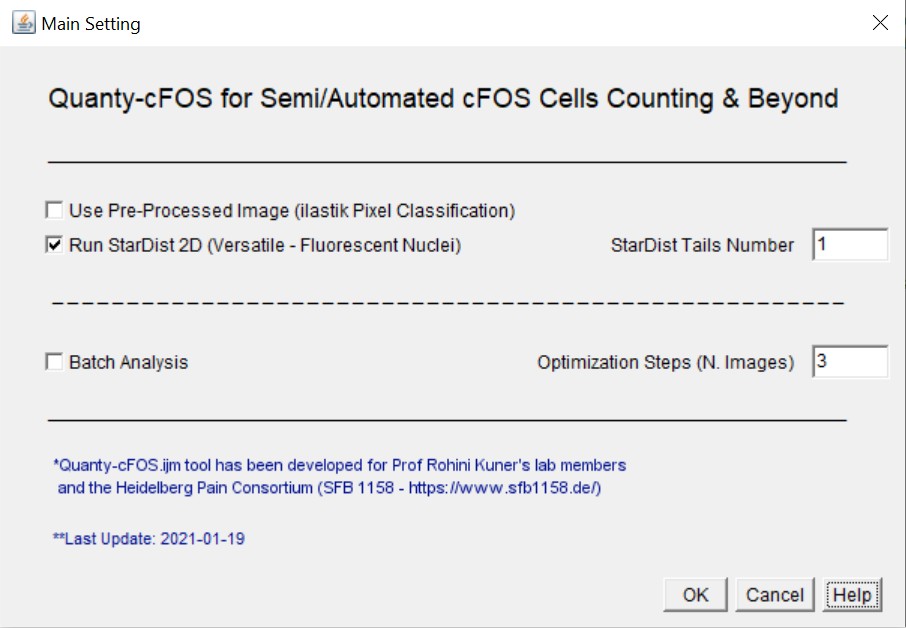
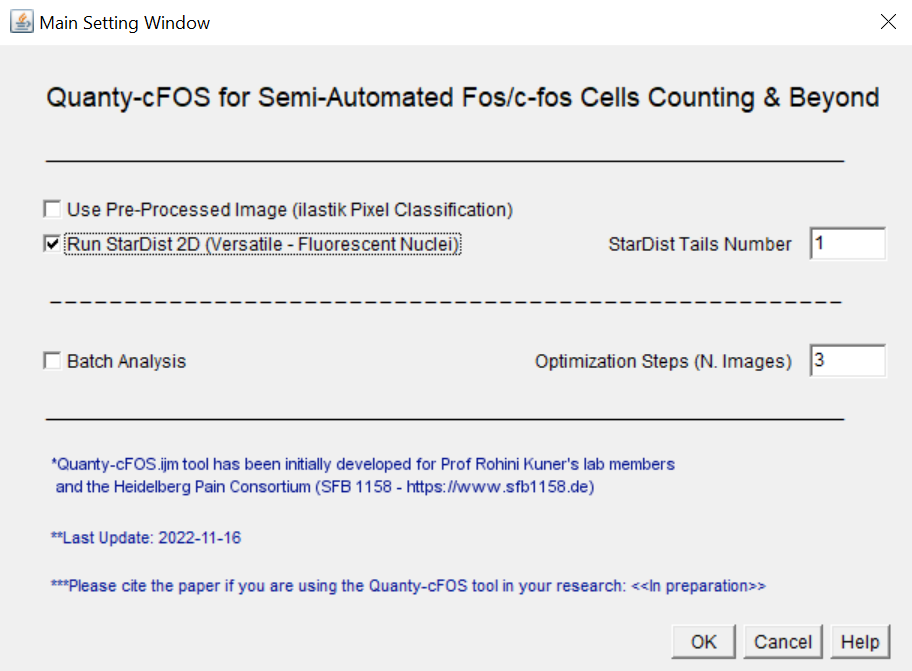
Update README

diff --git a/README.md b/README.md
@@ -2,7 +2,12 @@
 
 <p align="center">
   <img width="924" height="412" src="static/cover.jpg">
+  <img.resize {
+              max-width:auto;
+              max-height:100%;
+              }
 </p
+
 
 The *Quanty-cFOS.ijm* is an ImageJ/Fiji tool developed to count specifically Fos/*c-fos* labelled cells in fixed brain slices or more generally to count cell markers in 2D fluorescent images or on Maximum Intensity Projections (MIP) in an unbiased manner. For flexibility reasons this tool is implemented as a macro-set (IJ1) for Image/Fiji (tested on version 1.53s and above)
 
@@ -13,7 +18,7 @@ The Quanty-cFOS tool uses two different segmentation methods:
 
 The user can decide which method is more suitable to process the input raw images. It is recommended to start with the StarDist 2D *Versatile* model and switch to the ilastik pixel classification workflow only if the detection is not accurate enough or the structures of interest are not convex
 
-The novelty of the Quanty-cFOS counting tool is the *z-score* intensity analysis used to compute the intensity cutoff (*cFOS Automated Optimization*). The algorithm computes the intensity and the standard deviation of each detected cell on the raw images and uses the normalized distance between each single cell intensity and the mean population intensity to calculate the intensity cutoff. Cells above the intesity cutoff are counted positve, below the cutoff - negative
+The novelty of the Quanty-cFOS counting tool is the *z-score* intensity analysis used to compute the intensity cutoff (*Automated Optimization*). The algorithm computes the intensity and the standard deviation of each detected cell on the raw images and uses the normalized distance between each single cell intensity and the mean population intensity to calculate the intensity cutoff. Cells above the intesity cutoff are counted positve, below the cutoff - negative
 
 The workflow consists of two major steps: 
 
@@ -22,7 +27,7 @@ The workflow consists of two major steps:
 
 
 
-## Quanty-cFOS: Automated Intensity Count (Experimental)
+## Quanty-cFOS: Automated Optimization (Experimental)
 
 Fos/*c-fos* staining is known to work differently depending on many experimental factors that might include fixation, antibody type and batch, section thickness... Fos/*c-fos* neurons manual count is extremely time consuming and can differ depending on the decision criteria in particular when is performed manually by visually annotating cells. Fos/*c-fos* automated intensity count can be used to significantly speed up the counting process and further reduce human counts bias
 
@@ -61,10 +66,10 @@ The user can input the range of standard deviations (*sigma*) to decide the opti
 
    - In case of large images increase the *StarDist Tails Number*
 
-   - *Batch Analysis* and *Optimization Steps* allow to decide how many images will interactively pop up to the user and in case of *cFOS Automated Optimization* (see below), the number of images used to compute the intensity threshold cutoff for Fos/*c-fos* positive and negative cells. A recommendation for starting is to leave the box unchecked and proceed to the next step by clicking the *OK* button
+   - *Batch Analysis* and *Optimization Steps* allow to decide how many images will interactively pop up to the user and in case of *Automated Optimization* (see below), the number of images used to compute the intensity threshold cutoff for Fos/*c-fos* positive and negative cells. A recommendation for starting is to leave the box unchecked and proceed to the next step by clicking the *OK* button
 
 <p align="center">
-  <img width="483" height="334" src="static/main_setting.png">
+  <img width="583" height="434" src="static/main_setting.png">
 </p>
 
 
@@ -72,8 +77,10 @@ The user can input the range of standard deviations (*sigma*) to decide the opti
 6. The *User Input Setting Window* pops up. Please check the *Help* to get familiar with the different options. *Tip*: starting with the default setting can give already decent counts
 
 <p align="center">
-  <img width="623" height="187" src="static/user_input_setting.png">
+  <img width="683" height="200" src="static/user_input_setting.png">
 </p>
+
+
 8. Press *OK*, the first image will be processed and the *User Input Setting Window* pops up again, every time a new image is processed. To automate further the counting and do not display the *User Input Setting* dialog box for each image the user can choose in the *Main Setting Windows* the *Batch Analysis* and set the *Optimization Steps* to the number of images needed to compute the intensity cutoff (*e.g.:* 10 *Optimization Steps* =  first 10 Images are used to compute the intensity cutoff)
 9. The Quanty-cFOS output is a folder with sub-folders for each raw image processed. Each sub-folder has the same name of the input image and contains:
 
